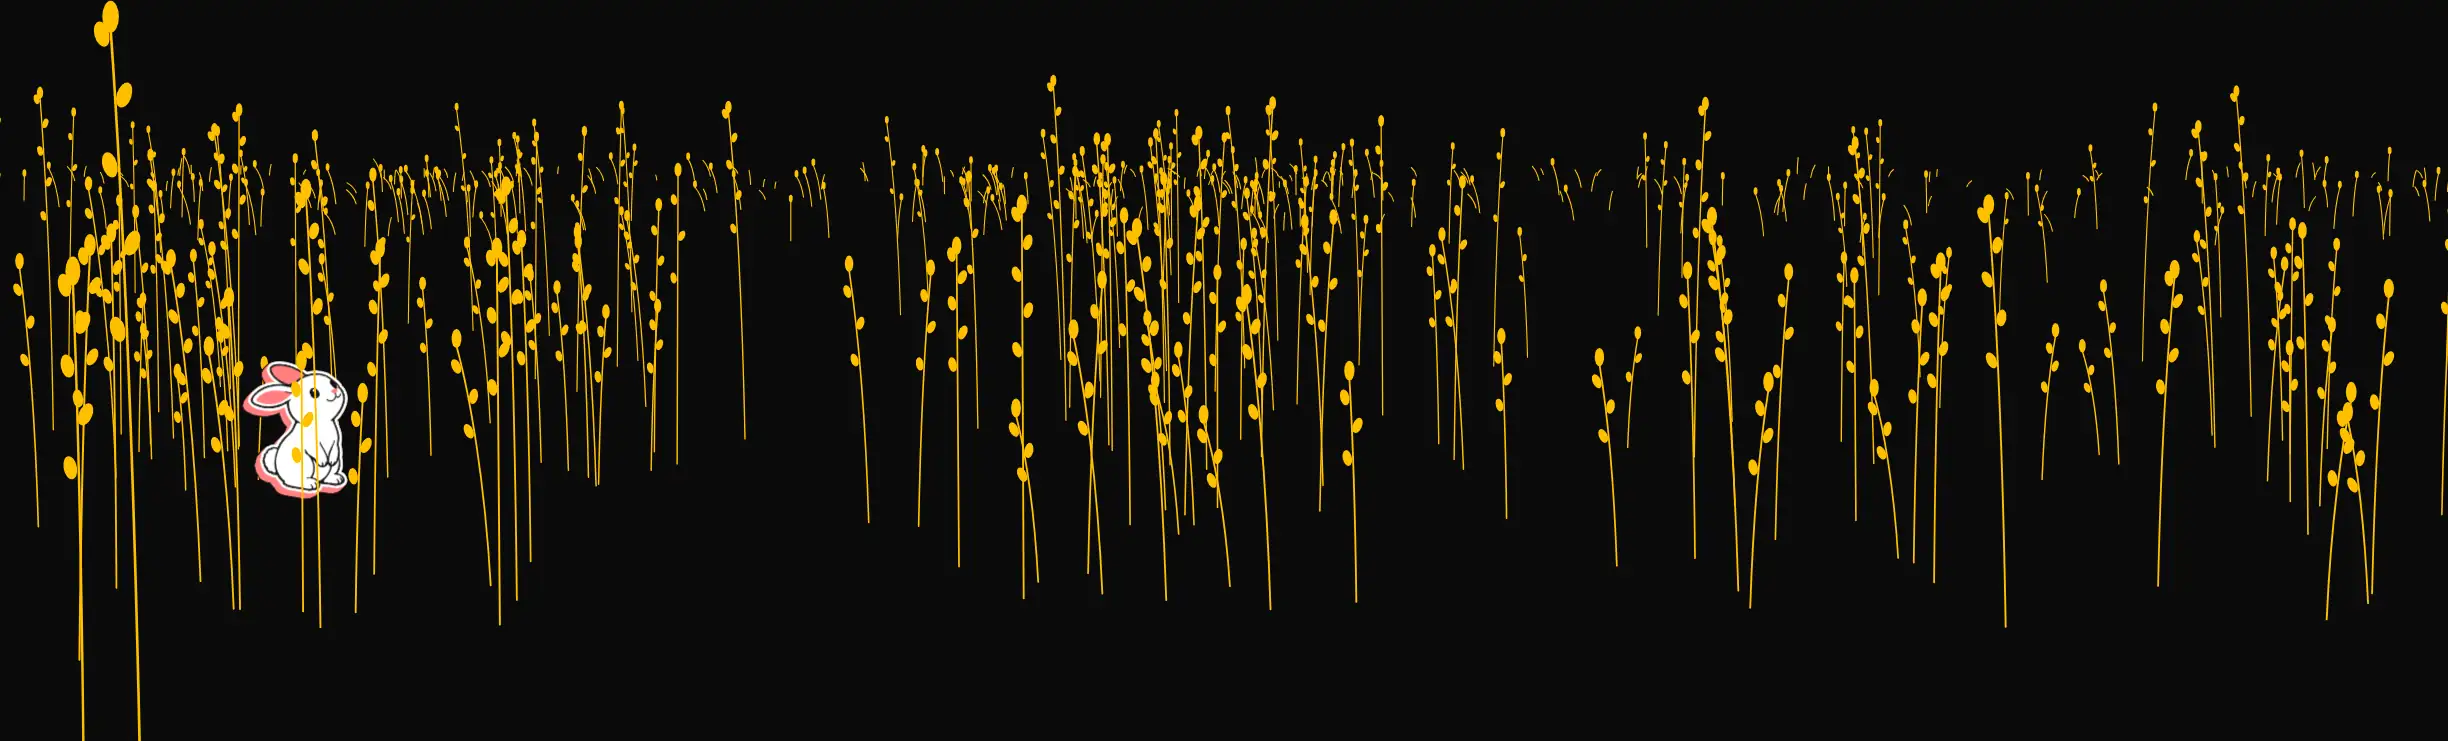
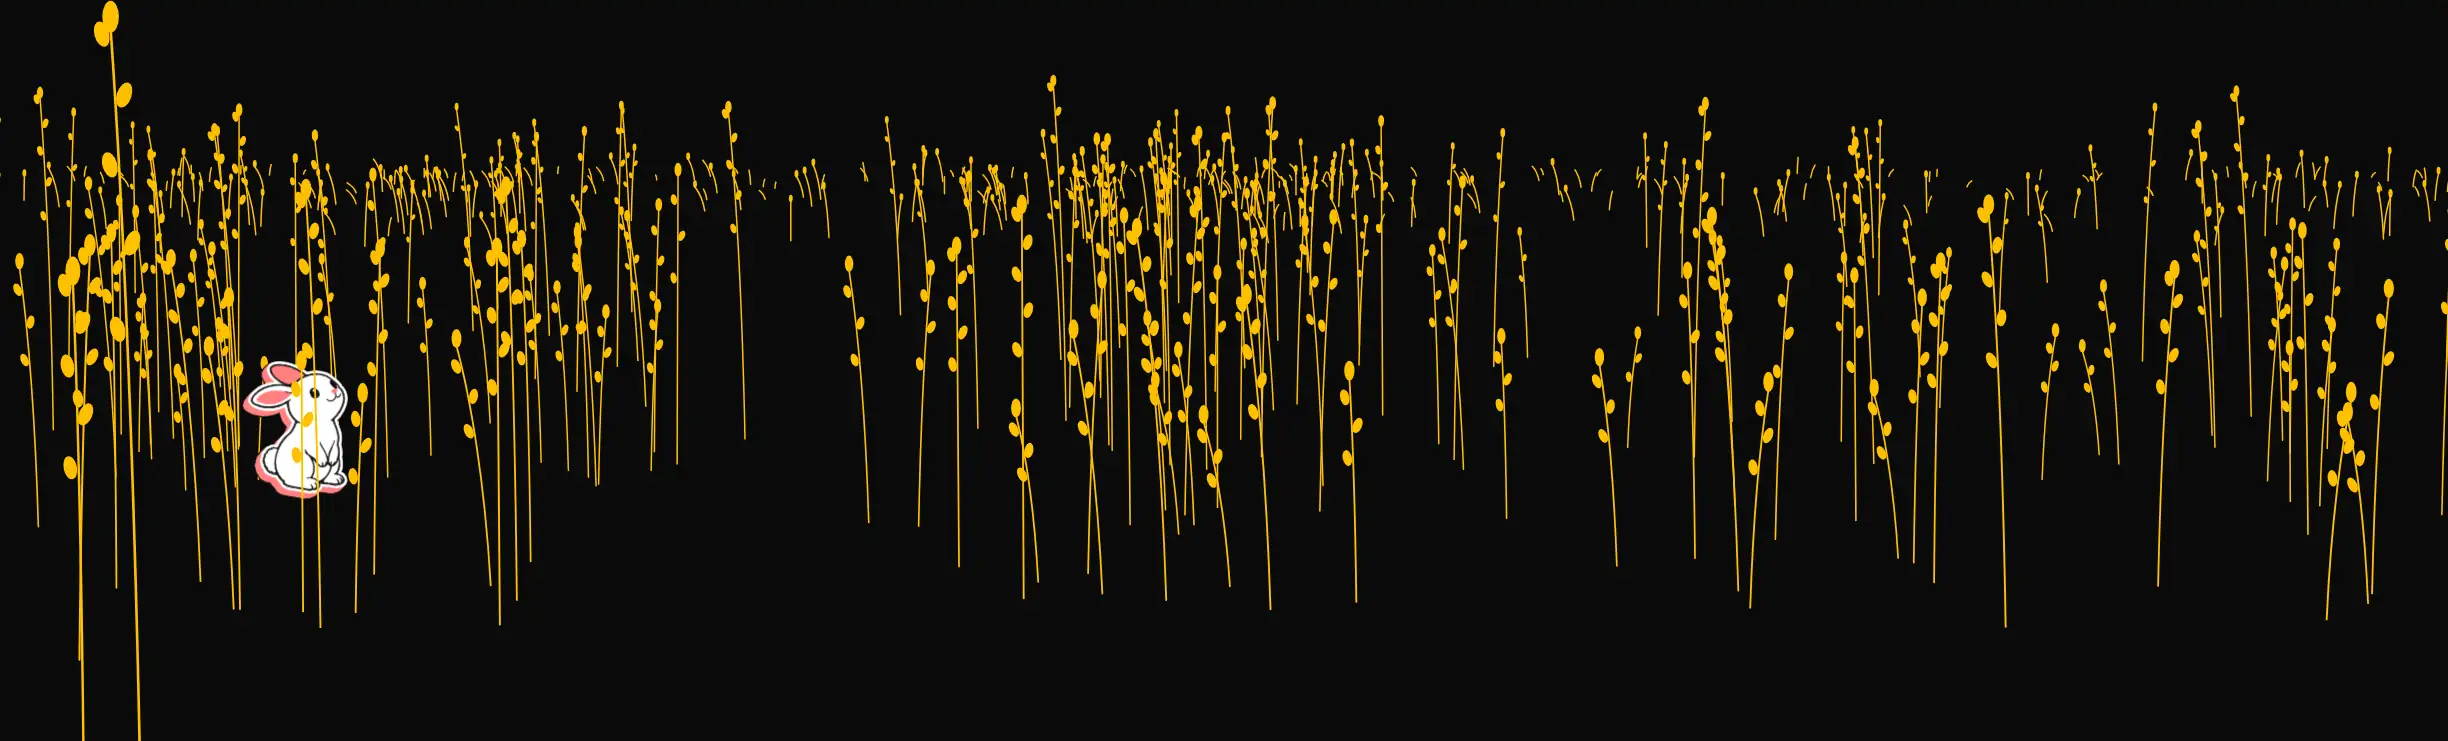
fix: Draw hero stalks at least 1.5 device pixels wide.

diff --git a/src/lib/hero-field-scene.ts b/src/lib/hero-field-scene.ts
@@ -267,7 +267,9 @@ export const BUD_TIERS = [
 ] as const;
 
 export const STALK_WIDTH = { min: 0.55, bySize: 3.1 } as const;
-/** Share of its traced width a stalk is drawn at, never under `STALK_WIDTH.min`. */
+/** Device pixels: thinner, a stalk antialiases under 7:1 on a 1x screen (measured). */
+export const STALK_MIN_DEVICE_PX = 1.5;
+/** Share of its traced width a stalk is drawn at, never under either minimum. */
 export const STALK_WIDTH_SHARE = 0.5;
 /** Line width in CSS pixels of the outline around a filled bud. */
 export const FILL_OUTLINE = 1;

diff --git a/src/lib/hero-field.ts b/src/lib/hero-field.ts
@@ -56,6 +56,7 @@ import {
   SPEED_LIMIT_RATIO,
   SIT,
   SPRING,
+  STALK_MIN_DEVICE_PX,
   STALK_WIDTH,
   STALK_WIDTH_SHARE,
   STEM_ALPHA,
@@ -364,7 +365,11 @@ const strokeStalk = (
 ): void => {
   ctx.strokeStyle = palette.stalk;
   ctx.globalAlpha = 1;
-  ctx.lineWidth = Math.max(STALK_WIDTH.min, ctx.lineWidth * STALK_WIDTH_SHARE);
+  ctx.lineWidth = Math.max(
+    STALK_WIDTH.min,
+    STALK_MIN_DEVICE_PX / ctx.getTransform().a,
+    ctx.lineWidth * STALK_WIDTH_SHARE,
+  );
   ctx.stroke();
 };
 

diff --git a/docs/STYLEGUIDE.md b/docs/STYLEGUIDE.md
@@ -348,7 +348,8 @@ The switch and what it scopes: [ARCHITECTURE.md](../ARCHITECTURE.md#light-mode).
   so `.surface-gold`, buttons, tiles and stickers fill cyan under `#131313`
   (9.36); `gold-muted` is `#131313`. The homepage hero stands on the page:
   both modes draw every stalk at full strength and half width, no thinner than
-  0.55px. Gold stalks and buds in dark mode (11.99); in light mode
+  0.55px or 1.5 device pixels (thinner antialiases under 7:1 on a 1x screen).
+  Gold stalks and buds in dark mode (11.99); in light mode
   (`hero-fill`) ink stalks (18.58) with cyan buds.
 - Hover on a cyan fill is `#131313` under `#E5E2E1`.
 - Gold text turns ink; a `.label.text-gold` and a slide label gain a cyan
